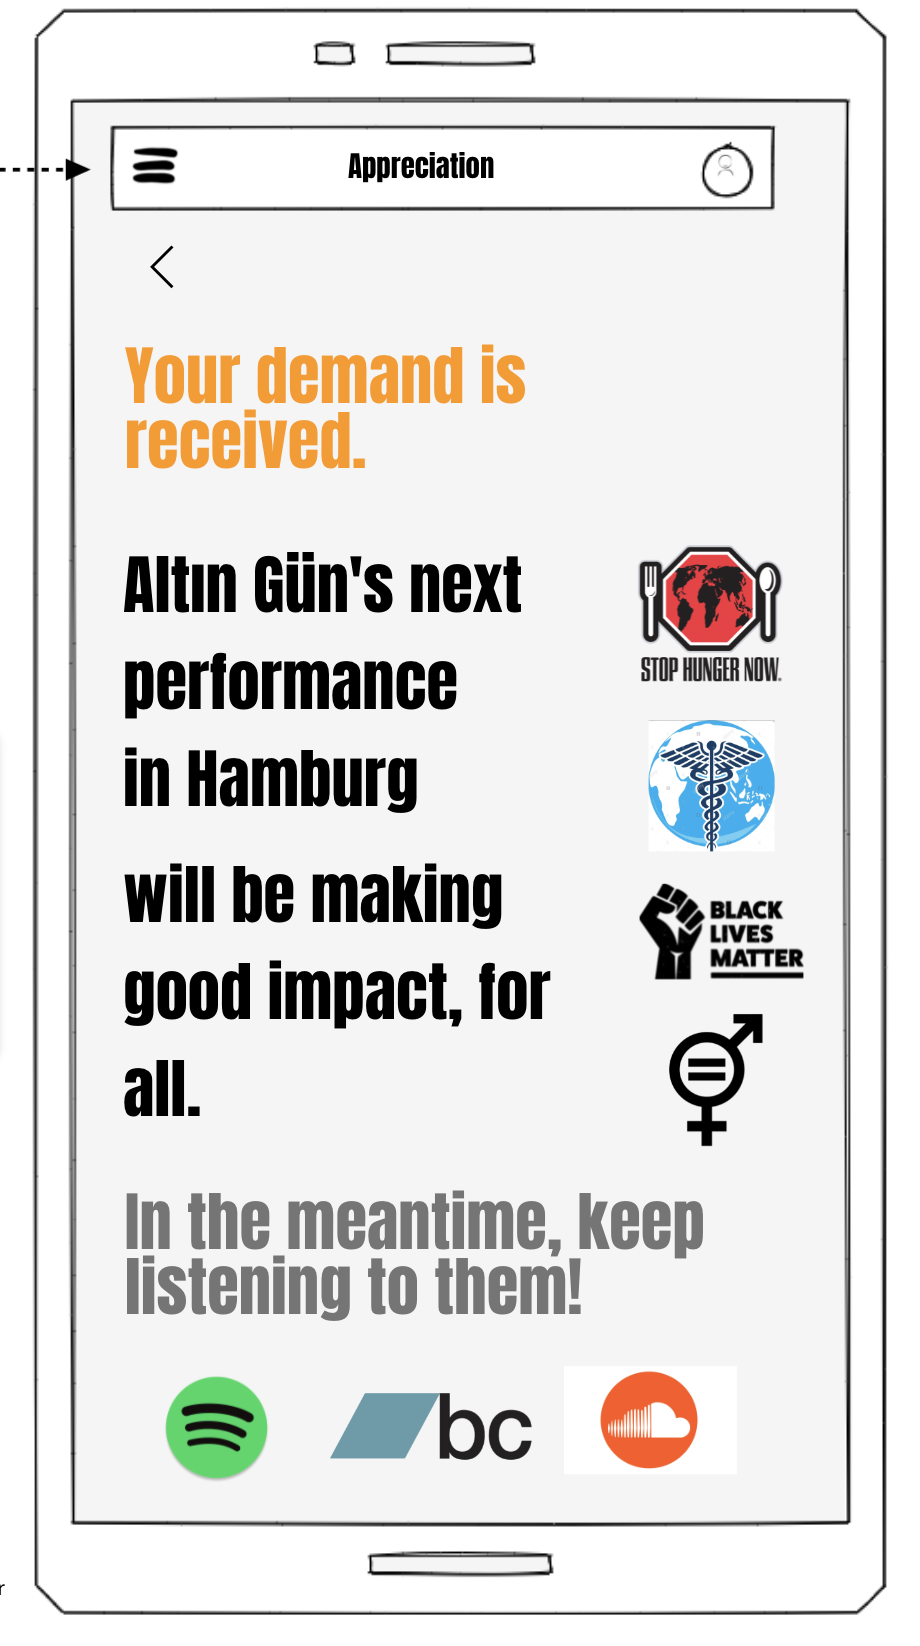
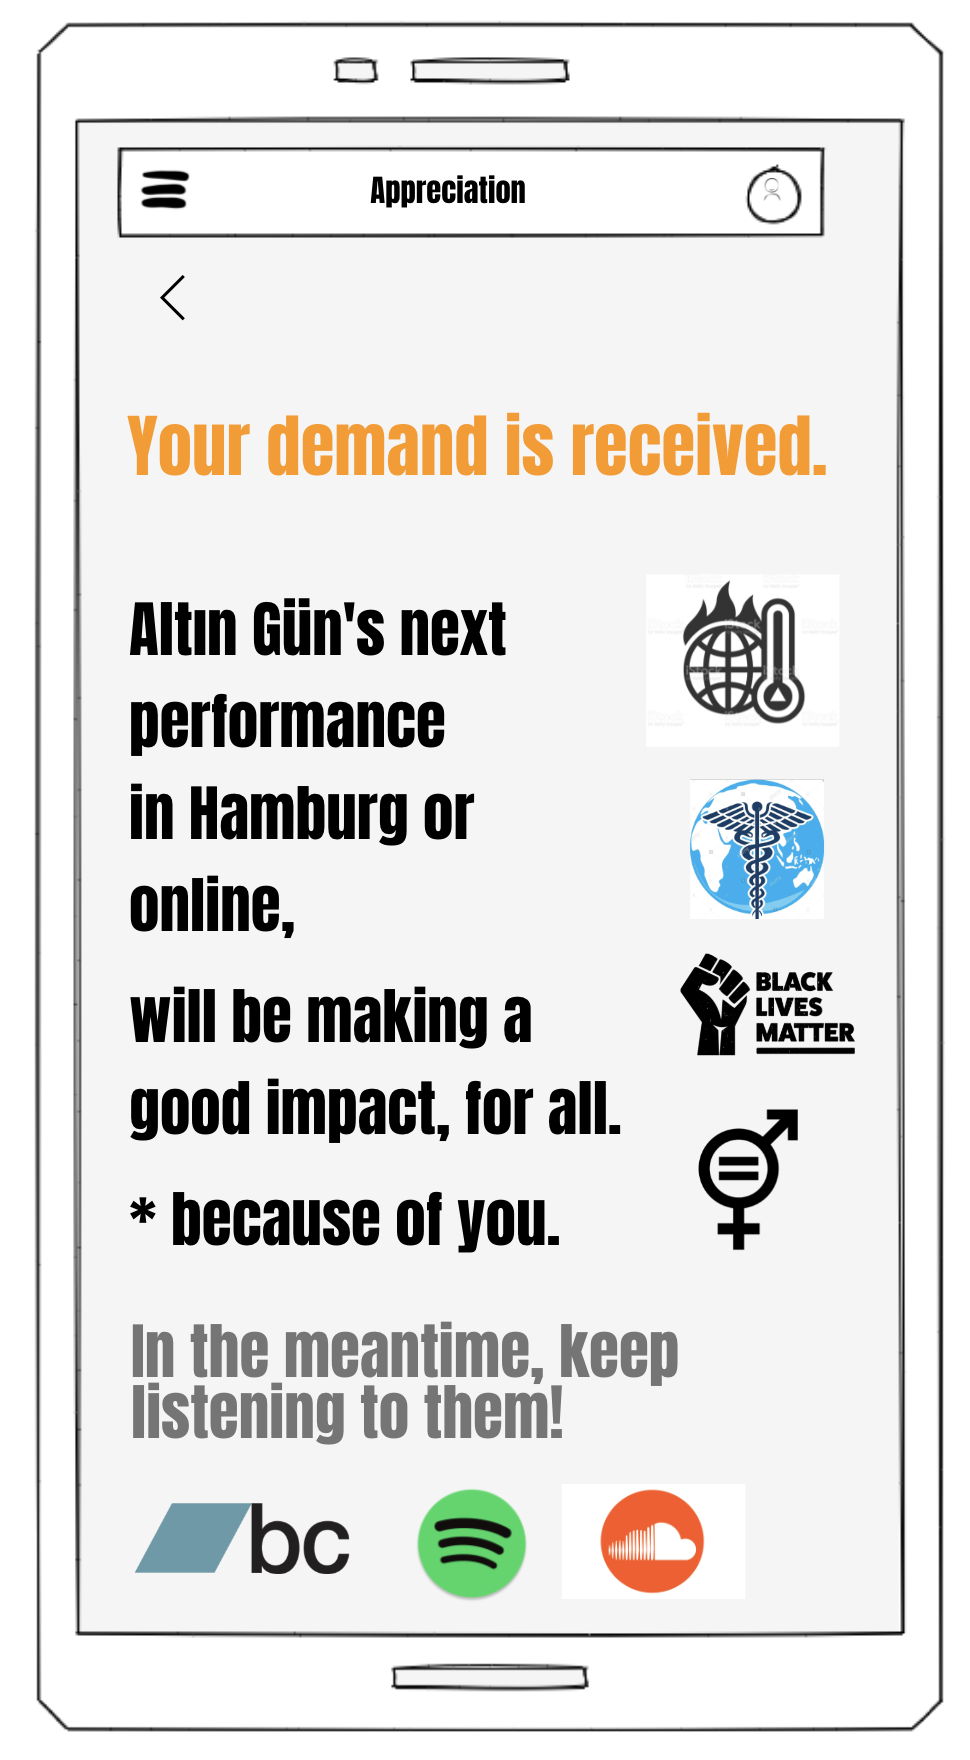
Add whats and nots

Changed region(s): [[0.0304, 0.0, 0.9739, 0.9915]]

diff --git a/index.html b/index.html
@@ -4,16 +4,16 @@
         
         <meta http-equiv="X-UA-Compatible" content="IE=edge">
         <meta name="viewport" content="width=device-width, initial-scale=1">
-        <title>Radical Design –&nbsp;Coming Soonish from Jack McDade</title>
+        <title>Future, made by and for all.</title>
         <meta name="description" content="A rebellious, multi-lateral, inclusive and future-oriented design, by the artists and techies of the Planet.">
         <meta name="theme-color" content="FDF767">
         <meta name="twitter:card" content="summary_large_image">
         <meta name="twitter:site" content="@jackmcdade">
         <meta name="twitter:creator" content="@jackmcdade">
-        <meta name="twitter:title" content="Radical Design – Coming Soonish from Jack McDade">
+        <meta name="twitter:title" content="Future, made by and for all.">
         <meta name="twitter:description" content="A rebellious, multi-lateral, inclusive and future-oriented design, by the artists and techies of the Planet.">
         <meta name="twitter:image" content="https://radicaldesigncourse.com/assets/img/twitter-large.jpg">
-        <meta property="og:title" content="Radical Design – Coming Soonish from Jack McDade">
+        <meta property="og:title" content="Future, made by and for all.">
         <meta property="og:description" content="A rebellious, multi-lateral, inclusive and future-oriented design, by the artists and techies of the Planet.">
         <meta property="og:image" content="https://radicaldesigncourse.com/assets/img/twitter-large.jpg">
         <meta property="og:url" content="https://radicaldesigncourse.com">
@@ -72,9 +72,8 @@
             <span class="text-6xl lg:text-7xl absolute left-0 top-0 -ml-4 lg:-ml-4 mt-2 rasta">“</span>Expression of Demand<span class="text-7xl hidden lg:block absolute right-0 top-0 -mr-4 mt-2 rasta">”</span>
         </blockquote>
         <div class="max-w-lg mx-auto content md:mt-8">
-            <p>This umbrella project, “Future, Made * by All.”  introduces  a demand-augmented framework for the enablement of making future more clearer for tangible things, 
-                by making use of “a time period ahead” to gather real demands from audiences of artistic and scientific creations 
-                through increasing the accessibility and sustainability of the arts, culture and knowledge.
+            <p>This umbrella project, “FutureMade”  introduces  a demand-augmented framework for the enablement of making future more clearer for tangible things, 
+                by making use of “a time period ahead” to gather real event and content demands from audiences of the artists, journalists and scientists through incentivizing demand-ability of their creations and ideas, for the sake of the betterment on their accessibility and sustainability of the arts, culture and knowledge. 
             </p>
 
             <p>
@@ -93,7 +92,10 @@
                     <img src="./FutureMade_files/arrow-down-left.svg" alt="An arrow pointing to the paragraph">
                 </div>
 
-                <p>Design propositions and implementations will start contemplating and simplistic interactions, that are initiate-able through <strong>future-oriented demand and intention declaration with a given validity duration</strong> ("demand on air", eg: 2 years); for the <b>art events and performances, and will concurrently progress on news topics and debates.</bb></b></p>
+                <p>Design propositions and implementations will start with simplistic interactions, that are initiate-able through <br><br>
+                    <strong>future-oriented demand and intention declaration with a given validity duration</strong> ("demand on air"); <br><br> 
+                    initially for the <b>art events and performances, <br><br> 
+                    and will concurrently progress on the enablement of demand-able news topics, to discuss reasoning or impact of an arbitrary happening, throuh discussions, panels and debates.</bb></b></p>
 
             <p>
                 We have recently discovered that our contemplations will mostly align on their motivation and how we approach cooperation and fairness in general, 
@@ -108,12 +110,62 @@
             <p class="text-xs">Design propositions and implementations will start contemplating and simplistic interactions, initiate-able through future-oriented demand and intention exposition for the <b>art events and performances, and will concurrently progress on news topics and debates.
             </div> -->
 
-            <div class="max-w-lg mx-auto mt-16 text-xl content justify-center">
+            <!-- <div class="max-w-lg mx-auto mt-16 text-xl content justify-center"> -->
+            <div class="relative">
               
-            <h2><u> What</u> have been our design considerations?</h2>
+            <h2><u> What</u> have been our design considerations |> what's and nots?</h2>
+
+            <h2>FutureMade</h2>
+
             <!-- to achieve a broader sustainability and inclusivity at the same time? -->
-            <br> <strong>Platform</strong>
-            <ul>
+
+            <p>
+                <strong>Does not approach people as users.</strong> <br><br>
+                We are participants and potential co-imaginators of the future live events. We are not imagining something to consume, but something to attend or hear reliable and interesting knowledge from. <br><br>  
+
+                |> concerts, exhibitions, theaters .. and festivals of those <br><br>
+                |> news topics/ documentaries <br><br>
+                |> and panels/debates.   <br><br>
+                
+                We Individually and collectively tend to form and extend differences and shared values, probably best effective around existing local and global causes/issues.
+            </p>
+
+            <p>
+                <strong>Does not define user types/roles in a conventional way.</strong>  <br><br>
+                
+                |>  Instead, there is something called "behaviour", observed in a quite intersectional ground, at an individual level: <br><br>
+
+                |>  |> "Audience" is a behavior: <br>
+                    Artists are audiences of other artists, so can demand performances & 
+                    exhibitions from them and introduce to their networks and audiences. <br><br>
+                |>  |> "Artist" as well is a behaviour: <br>
+                    Any individual can express their artistic side via their inner creativity, by the empowerment and enablement of creative communities, locally and globally.
+            </p>
+                   
+        
+            <p><strong>Promotes an "effective and tolerable" level of transparency between the artists and audiences,
+                along with dedication on promoting the enablement of "prosumers":</strong> <br><br>
+                |> via discovery of collective demand, <br><br>
+                |> a unique form for demanding online &amp; regular events <br><br>
+                |> while being able to create global impact on their potential attendance &amp;/or interest in the content.
+            </p>
+
+            <p><strong>Introduces the flexible combination of:</strong> <br><br>
+                |> affordable, <br><br>
+                |> charitable, <br><br>
+                |> accessible &amp; <br><br>
+                |> desirable  <br><br>
+                attributes for a demand-able, arbitrary future art event. <br><br>
+
+                |> via opening a channel to communicate around the <u>"as-is", deterministicly set, risk taking and non-incentivising price-tag models</u>
+            </p>
+
+                           <!-- <p> </b> Rather than market-places, listing of defined events or deterministic and commonly "extractive" ticketing and participation,
+                    <p><b class="italic"> We have in the core:  <br></b> the affordable, charitable, accessible & desirable</b></p>
+                    <p><b class="italic"> An affordable is not limited </b>  to "money", your help literally "counts". </p> -->
+            </ul>
+
+            <!-- <ul>
                 <li>
                     <p>  Does not approach people as users. <br><br>They are participants. </p>
                     <p>|> We, individually and collectively tend to form and extend differences and shared values, probably around causes.</p>
@@ -133,7 +185,7 @@
                     <p>Focuses on the need around the transparency, via discovery of collective demand, and hence proposes a unique form of demanding online and regular events at the same time.</p>
                 </li>
             </ul>
-            
+             -->
             
 
            
@@ -186,7 +238,7 @@
     <div class="relative">
         
         <div class="py-16 lg:px-8">
-            <h2>Discovery of Collective Demand: </h2>
+            <h2> 0- Discovery of Collective Demand: </h2>
             <img class="object-cover h-48 w-full" src="./FutureMade_files/demand_flows/discovery_of_collective_local_demand_regular_event.png">
 
         </div>
@@ -196,7 +248,7 @@
     <div class="relative">
         
         <div class="py-16 lg:px-8">
-            <h2>Declaration of Intention: </h2>
+            <h2>1- Declaration of Intention: </h2>
             <img class="object-cover h-48 w-full" src="./FutureMade_files/demand_flows/intention_declaration.png">
 
         </div>
@@ -206,7 +258,7 @@
     <div class="relative">
         
         <div class="py-16 lg:px-8">
-            <h2>Reflection around the Values: </h2>
+            <h2>2- Reflection around the Values: </h2>
             <img class="object-cover h-48 w-full" src="./FutureMade_files/demand_flows/reflection_around_the_values.png">
 
         </div>
@@ -216,8 +268,8 @@
     <div class="relative">
         
         <div class="py-16 lg:px-8">
-            <h2>Appreciation: </h2>
-            <img class="object-cover h-48 w-full" src="./FutureMade_files/demand_flows/appreciation_after_demand_submission.png">
+            <h2>3- Appreciation for the Positive Impact: </h2>
+            <img class="object-cover h-48 w-full" src="./FutureMade_files/demand_flows/appreciation_of_impact.png">
 
         </div>
         <div class="right-0 left-0 absolute -ml-8 lg:-ml-12 xl:-ml-16 hidden md:block" id="fist-bump"></div>
@@ -302,7 +354,9 @@
                 <a href="http://tanjatae.com/" class="block text-3xl italic font-bold mt-4 leading-none text-yellow hover:text-white">Tanja Taechanurug</a>
                 <a href="https://www.instagram.com/tanja.tae/" class="quote-title">Designer, Illustrator</a>
             </div>
-            <blockquote class="relative z-10 md:order-last leading-relaxed mb-8 md:ml-12 ml-12 md:mt-16 text-xl md:text-2xl flex-1 -rotate-3">Tanja is a curious globetrotter and enjoys working in the areas of... She uses an interdisciplinary by combining art and design, works across channels and media and brings together creative and analytical thinking.</blockquote>
+            <blockquote class="relative z-10 md:order-last leading-relaxed mb-8 md:ml-12 ml-12 md:mt-16 text-xl md:text-2xl flex-1 -rotate-3">
+                Tanja is a curious globetrotter and enjoy working in the areas of branding, corporate design, editorial design and illustration.
+                She uses an interdisciplinary approach by combining art and design, works across channels and media and brings together creative and analytical thinking. </blockquote>
 
         </div>
     </div>
